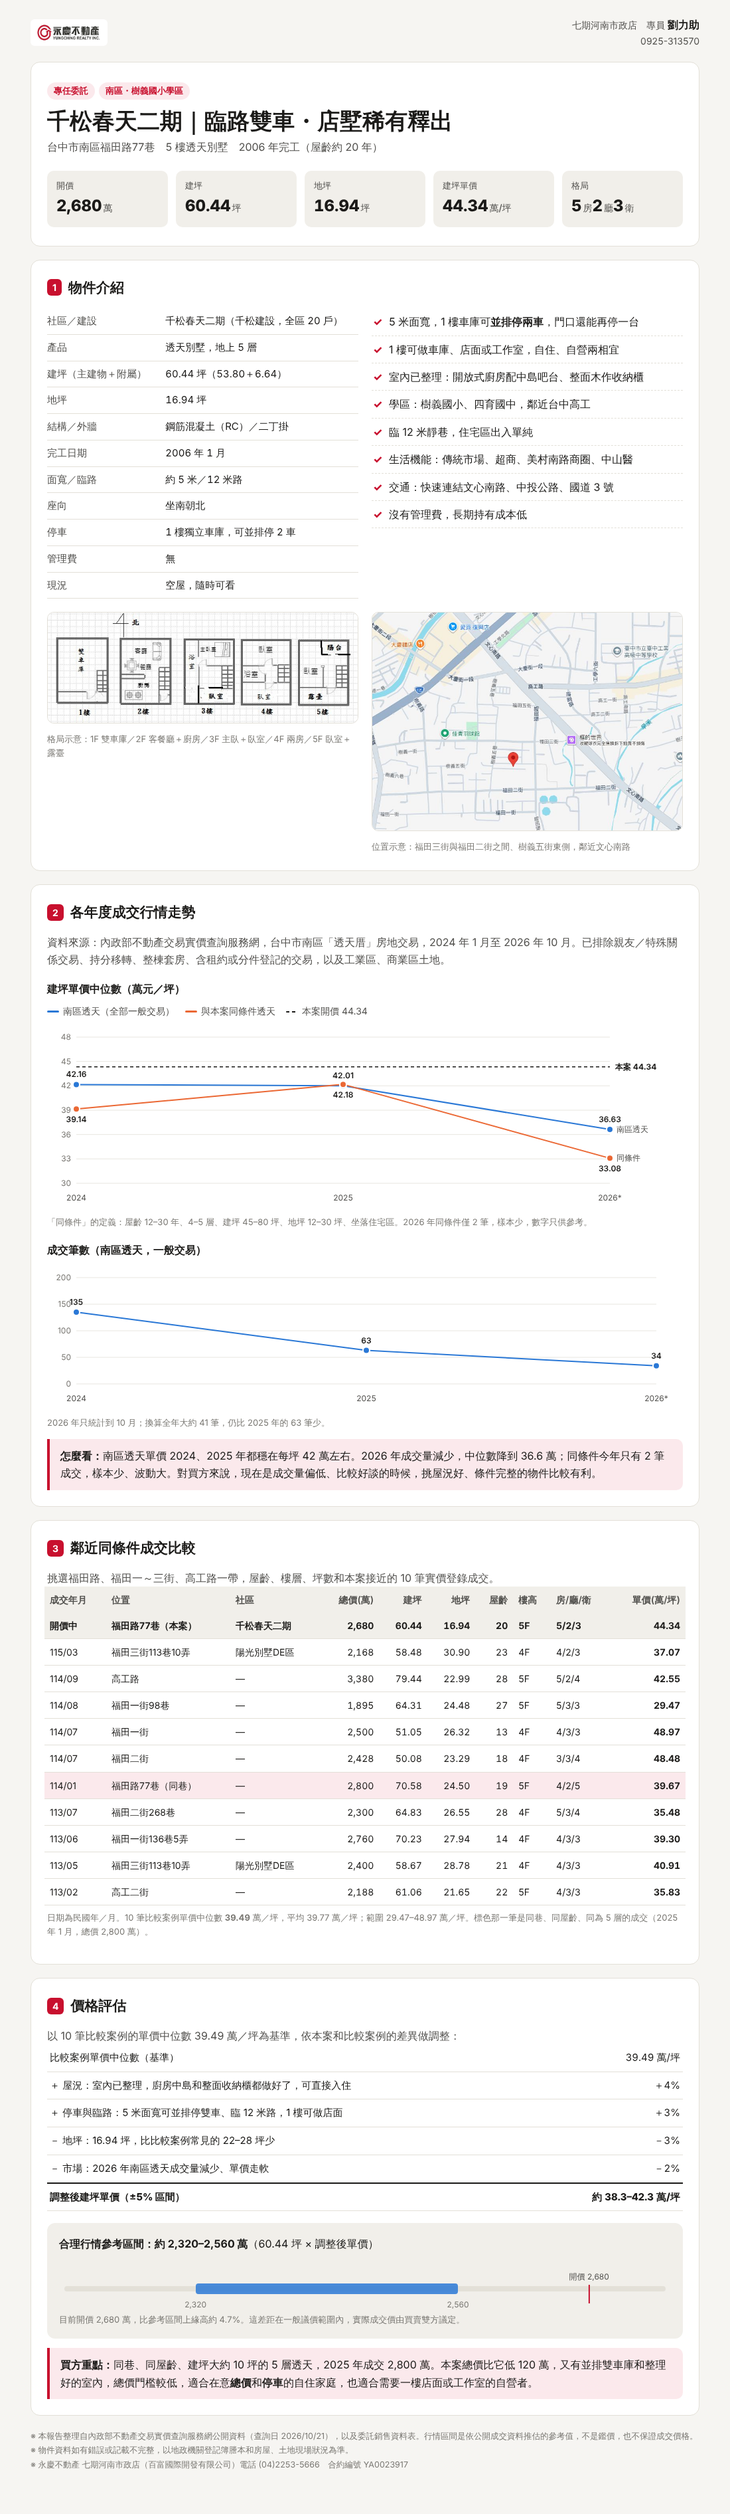
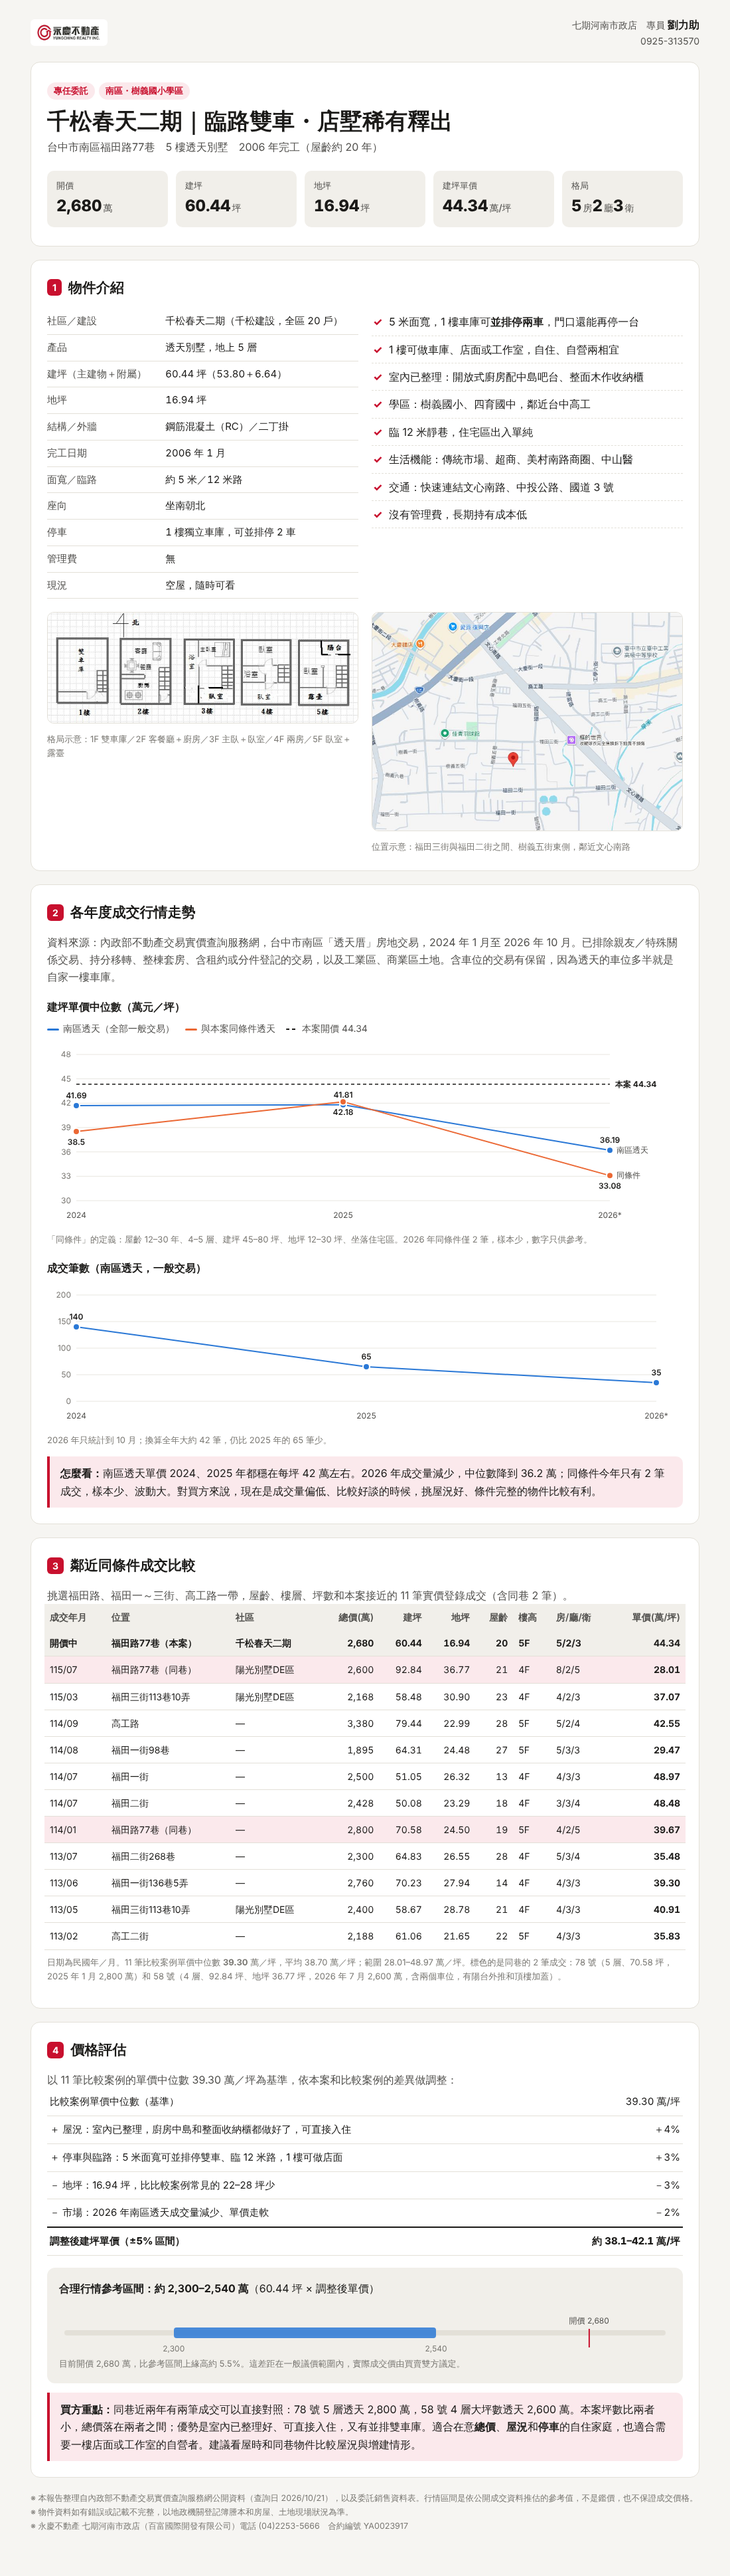
Include parking-space transactions in 千松春天二期 report comps
Townhouse sales registered with parking are the house's own ground-floor
garage, so they belong in the comparison. Adds the same-lane sale at
福田路77巷58號 and updates yearly stats and the price range.

Claude-Session: https://claude.ai/code/session_01P9ZKeWsAfZYryEGAyU9jqB

diff --git a/reports/千松春天二期_銷售評估報告.html b/reports/千松春天二期_銷售評估報告.html
@@ -150,7 +150,7 @@ footer{font-size:12.5px;color:var(--ink-3);line-height:1.7}
 
 <section>
   <h2><span class="no">2</span>各年度成交行情走勢</h2>
-  <p class="sub">資料來源：內政部不動產交易實價查詢服務網，台中市南區「透天厝」房地交易，2024 年 1 月至 2026 年 10 月。已排除親友／特殊關係交易、持分移轉、整棟套房、含租約或分件登記的交易，以及工業區、商業區土地。</p>
+  <p class="sub">資料來源：內政部不動產交易實價查詢服務網，台中市南區「透天厝」房地交易，2024 年 1 月至 2026 年 10 月。已排除親友／特殊關係交易、持分移轉、整棟套房、含租約或分件登記的交易，以及工業區、商業區土地。含車位的交易有保留，因為透天的車位多半就是自家一樓車庫。</p>
 
   <h3>建坪單價中位數（萬元／坪）</h3>
   <div class="legend">
@@ -163,20 +163,21 @@ footer{font-size:12.5px;color:var(--ink-3);line-height:1.7}
 
   <h3>成交筆數（南區透天，一般交易）</h3>
   <div class="chart" id="c2"><div class="tip"></div></div>
-  <p class="note">2026 年只統計到 10 月；換算全年大約 41 筆，仍比 2025 年的 63 筆少。</p>
+  <p class="note">2026 年只統計到 10 月；換算全年大約 42 筆，仍比 2025 年的 65 筆少。</p>
 
-  <div class="callout"><b>怎麼看：</b>南區透天單價 2024、2025 年都穩在每坪 42 萬左右。2026 年成交量減少，中位數降到 36.6 萬；同條件今年只有 2 筆成交，樣本少、波動大。對買方來說，現在是成交量偏低、比較好談的時候，挑屋況好、條件完整的物件比較有利。</div>
+  <div class="callout"><b>怎麼看：</b>南區透天單價 2024、2025 年都穩在每坪 42 萬左右。2026 年成交量減少，中位數降到 36.2 萬；同條件今年只有 2 筆成交，樣本少、波動大。對買方來說，現在是成交量偏低、比較好談的時候，挑屋況好、條件完整的物件比較有利。</div>
 </section>
 
 <section>
   <h2><span class="no">3</span>鄰近同條件成交比較</h2>
-  <p class="sub">挑選福田路、福田一～三街、高工路一帶，屋齡、樓層、坪數和本案接近的 10 筆實價登錄成交。</p>
+  <p class="sub">挑選福田路、福田一～三街、高工路一帶，屋齡、樓層、坪數和本案接近的 11 筆實價登錄成交（含同巷 2 筆）。</p>
   <div class="tbl-wrap">
   <table class="cmp">
     <thead><tr><th>成交年月</th><th>位置</th><th>社區</th><th class="n">總價(萬)</th><th class="n">建坪</th><th class="n">地坪</th><th class="n">屋齡</th><th>樓高</th><th>房/廳/衛</th><th class="n">單價(萬/坪)</th></tr></thead>
     <tbody>
       <tr class="subj"><td>開價中</td><td>福田路77巷（本案）</td><td>千松春天二期</td><td class="n">2,680</td><td class="n">60.44</td><td class="n">16.94</td><td class="n">20</td><td>5F</td><td>5/2/3</td><td class="n">44.34</td></tr>
-      <tr><td>115/03</td><td>福田三街113巷10弄</td><td>陽光別墅DE區</td><td class=n>2,168</td><td class=n>58.48</td><td class=n>30.90</td><td class=n>23</td><td>4F</td><td>4/2/3</td><td class=n><b>37.07</b></td></tr>
+      <tr class=hl><td>115/07</td><td>福田路77巷（同巷）</td><td>陽光別墅DE區</td><td class=n>2,600</td><td class=n>92.84</td><td class=n>36.77</td><td class=n>21</td><td>4F</td><td>8/2/5</td><td class=n><b>28.01</b></td></tr>
+<tr><td>115/03</td><td>福田三街113巷10弄</td><td>陽光別墅DE區</td><td class=n>2,168</td><td class=n>58.48</td><td class=n>30.90</td><td class=n>23</td><td>4F</td><td>4/2/3</td><td class=n><b>37.07</b></td></tr>
 <tr><td>114/09</td><td>高工路</td><td>—</td><td class=n>3,380</td><td class=n>79.44</td><td class=n>22.99</td><td class=n>28</td><td>5F</td><td>5/2/4</td><td class=n><b>42.55</b></td></tr>
 <tr><td>114/08</td><td>福田一街98巷</td><td>—</td><td class=n>1,895</td><td class=n>64.31</td><td class=n>24.48</td><td class=n>27</td><td>5F</td><td>5/3/3</td><td class=n><b>29.47</b></td></tr>
 <tr><td>114/07</td><td>福田一街</td><td>—</td><td class=n>2,500</td><td class=n>51.05</td><td class=n>26.32</td><td class=n>13</td><td>4F</td><td>4/3/3</td><td class=n><b>48.97</b></td></tr>
@@ -189,28 +190,28 @@ footer{font-size:12.5px;color:var(--ink-3);line-height:1.7}
     </tbody>
   </table>
   </div>
-  <p class="note">日期為民國年／月。10 筆比較案例單價中位數 <b>39.49</b> 萬／坪，平均 39.77 萬／坪；範圍 29.47–48.97 萬／坪。標色那一筆是同巷、同屋齡、同為 5 層的成交（2025 年 1 月，總價 2,800 萬）。</p>
+  <p class="note">日期為民國年／月。11 筆比較案例單價中位數 <b>39.30</b> 萬／坪，平均 38.70 萬／坪；範圍 28.01–48.97 萬／坪。標色的是同巷的 2 筆成交：78 號（5 層、70.58 坪，2025 年 1 月 2,800 萬）和 58 號（4 層、92.84 坪、地坪 36.77 坪，2026 年 7 月 2,600 萬，含兩個車位，有陽台外推和頂樓加蓋）。</p>
 </section>
 
 <section>
   <h2><span class="no">4</span>價格評估</h2>
-  <p class="sub">以 10 筆比較案例的單價中位數 39.49 萬／坪為基準，依本案和比較案例的差異做調整：</p>
+  <p class="sub">以 11 筆比較案例的單價中位數 39.30 萬／坪為基準，依本案和比較案例的差異做調整：</p>
   <table class="adj">
-    <tr><td>比較案例單價中位數（基準）</td><td class="n">39.49 萬/坪</td></tr>
+    <tr><td>比較案例單價中位數（基準）</td><td class="n">39.30 萬/坪</td></tr>
     <tr><td>＋ 屋況：室內已整理，廚房中島和整面收納櫃都做好了，可直接入住</td><td class="n">＋4%</td></tr>
     <tr><td>＋ 停車與臨路：5 米面寬可並排停雙車、臨 12 米路，1 樓可做店面</td><td class="n">＋3%</td></tr>
     <tr><td>－ 地坪：16.94 坪，比比較案例常見的 22–28 坪少</td><td class="n">－3%</td></tr>
     <tr><td>－ 市場：2026 年南區透天成交量減少、單價走軟</td><td class="n">－2%</td></tr>
-    <tr class="sum"><td>調整後建坪單價（±5% 區間）</td><td class="n">約 38.3–42.3 萬/坪</td></tr>
+    <tr class="sum"><td>調整後建坪單價（±5% 區間）</td><td class="n">約 38.1–42.1 萬/坪</td></tr>
   </table>
 
   <div class="range">
-    <b>合理行情參考區間：約 2,320–2,560 萬</b>（60.44 坪 × 調整後單價）
+    <b>合理行情參考區間：約 2,300–2,540 萬</b>（60.44 坪 × 調整後單價）
     <div class="bar" id="rbar"></div>
-    <p class="note" style="margin:0">目前開價 2,680 萬，比參考區間上緣高約 4.7%。這差距在一般議價範圍內，實際成交價由買賣雙方議定。</p>
+    <p class="note" style="margin:0">目前開價 2,680 萬，比參考區間上緣高約 5.5%。這差距在一般議價範圍內，實際成交價由買賣雙方議定。</p>
   </div>
 
-  <div class="callout"><b>買方重點：</b>同巷、同屋齡、建坪大約 10 坪的 5 層透天，2025 年成交 2,800 萬。本案總價比它低 120 萬，又有並排雙車庫和整理好的室內，總價門檻較低，適合在意<b>總價</b>和<b>停車</b>的自住家庭，也適合需要一樓店面或工作室的自營者。</div>
+  <div class="callout"><b>買方重點：</b>同巷近兩年有兩筆成交可以直接對照：78 號 5 層透天 2,800 萬，58 號 4 層大坪數透天 2,600 萬。本案坪數比兩者小，總價落在兩者之間；優勢是室內已整理好、可直接入住，又有並排雙車庫。適合在意<b>總價</b>、<b>屋況</b>和<b>停車</b>的自住家庭，也適合需要一樓店面或工作室的自營者。建議看屋時和同巷物件比較屋況與增建情形。</div>
 </section>
 
 <footer>
@@ -221,7 +222,7 @@ footer{font-size:12.5px;color:var(--ink-3);line-height:1.7}
 </div>
 
 <script>
-const YEARS=[{"y": "2024（113年）", "all": 42.16, "same": 39.14, "near": 39.64, "cnt": 135, "cntSame": 18}, {"y": "2025（114年）", "all": 42.01, "same": 42.18, "near": 39.67, "cnt": 63, "cntSame": 8}, {"y": "2026（115年 1–10月）", "all": 36.63, "same": 33.08, "near": null, "cnt": 34, "cntSame": 2}];
+const YEARS=[{"y": "2024（113年）", "all": 41.69, "same": 38.5, "near": 39.64, "cnt": 140, "cntSame": 20}, {"y": "2025（114年）", "all": 41.81, "same": 42.18, "near": 39.67, "cnt": 65, "cntSame": 8}, {"y": "2026（115年 1–10月）", "all": 36.19, "same": 33.08, "near": null, "cnt": 35, "cntSame": 2}];
 const css=n=>getComputedStyle(document.documentElement).getPropertyValue(n).trim();
 const NS='http://www.w3.org/2000/svg';
 function el(t,a,p){const e=document.createElementNS(NS,t);for(const k in a)e.setAttribute(k,a[k]);p&&p.appendChild(e);return e}
@@ -270,9 +271,9 @@ function draw(){
   lineChart('c2',[{k:'cnt',c:'--series-1'}],{h:220,r:40,min:0,max:200,step:50,aria:'南區透天年度成交筆數',
      tip:d=>sw('--series-1')+'成交 '+d.cnt+' 筆'});
   const b=document.getElementById('rbar'),lo=2200,hi=2750,p=v=>((v-lo)/(hi-lo)*100)+'%';
-  b.innerHTML='<div class="track"></div><div class="band" style="left:'+p(2320)+';width:calc('+p(2560)+' - '+p(2320)+')"></div>'+
+  b.innerHTML='<div class="track"></div><div class="band" style="left:'+p(2300)+';width:calc('+p(2540)+' - '+p(2300)+')"></div>'+
    '<div class="pin" style="left:'+p(2680)+'">開價 2,680</div>'+
-   '<div class="lab" style="left:'+p(2320)+'">2,320</div><div class="lab" style="left:'+p(2560)+'">2,560</div>';
+   '<div class="lab" style="left:'+p(2300)+'">2,300</div><div class="lab" style="left:'+p(2540)+'">2,540</div>';
 }
 draw();
 let rt;addEventListener('resize',()=>{clearTimeout(rt);rt=setTimeout(draw,120)});
